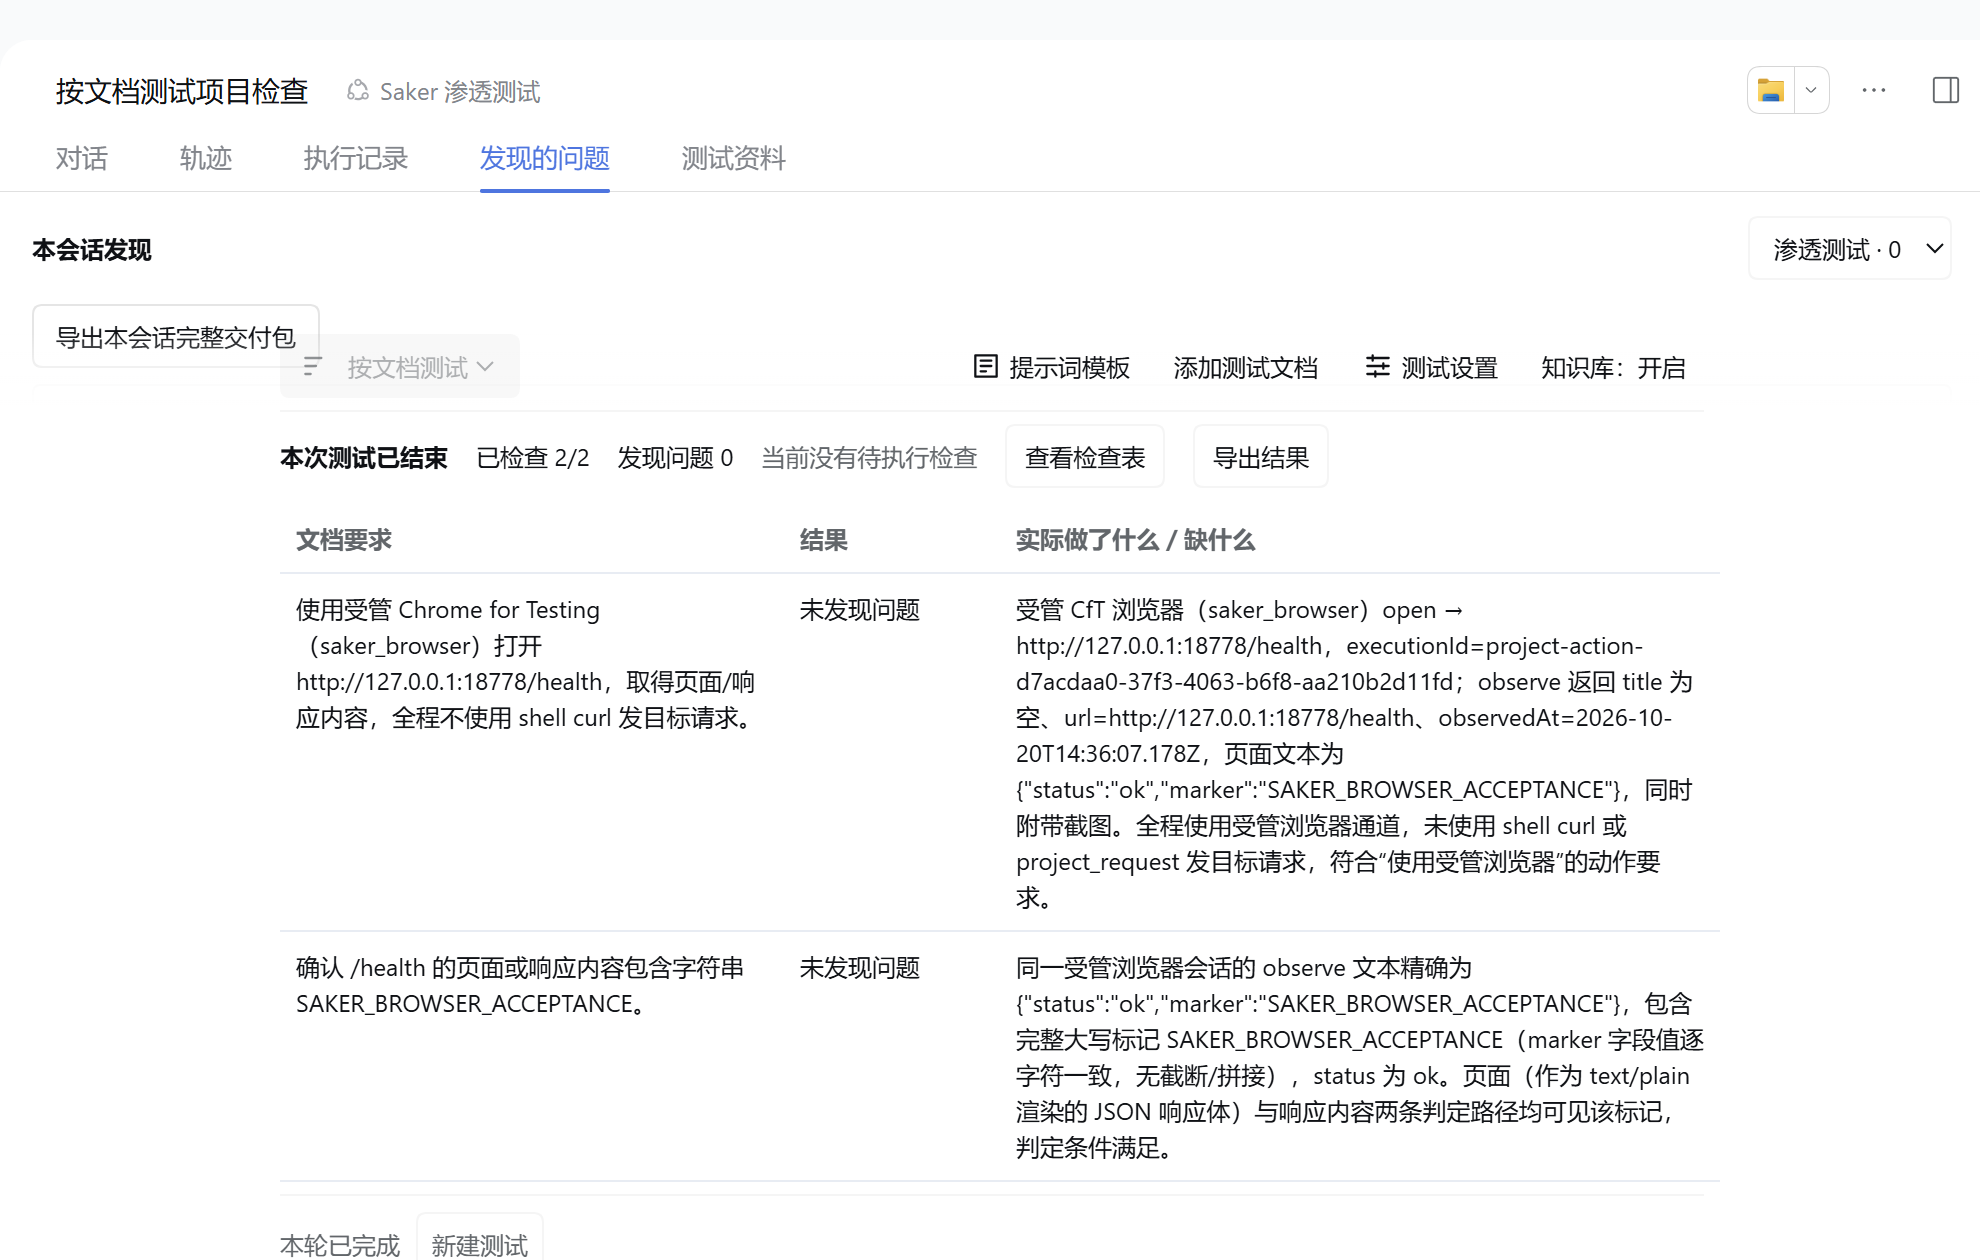
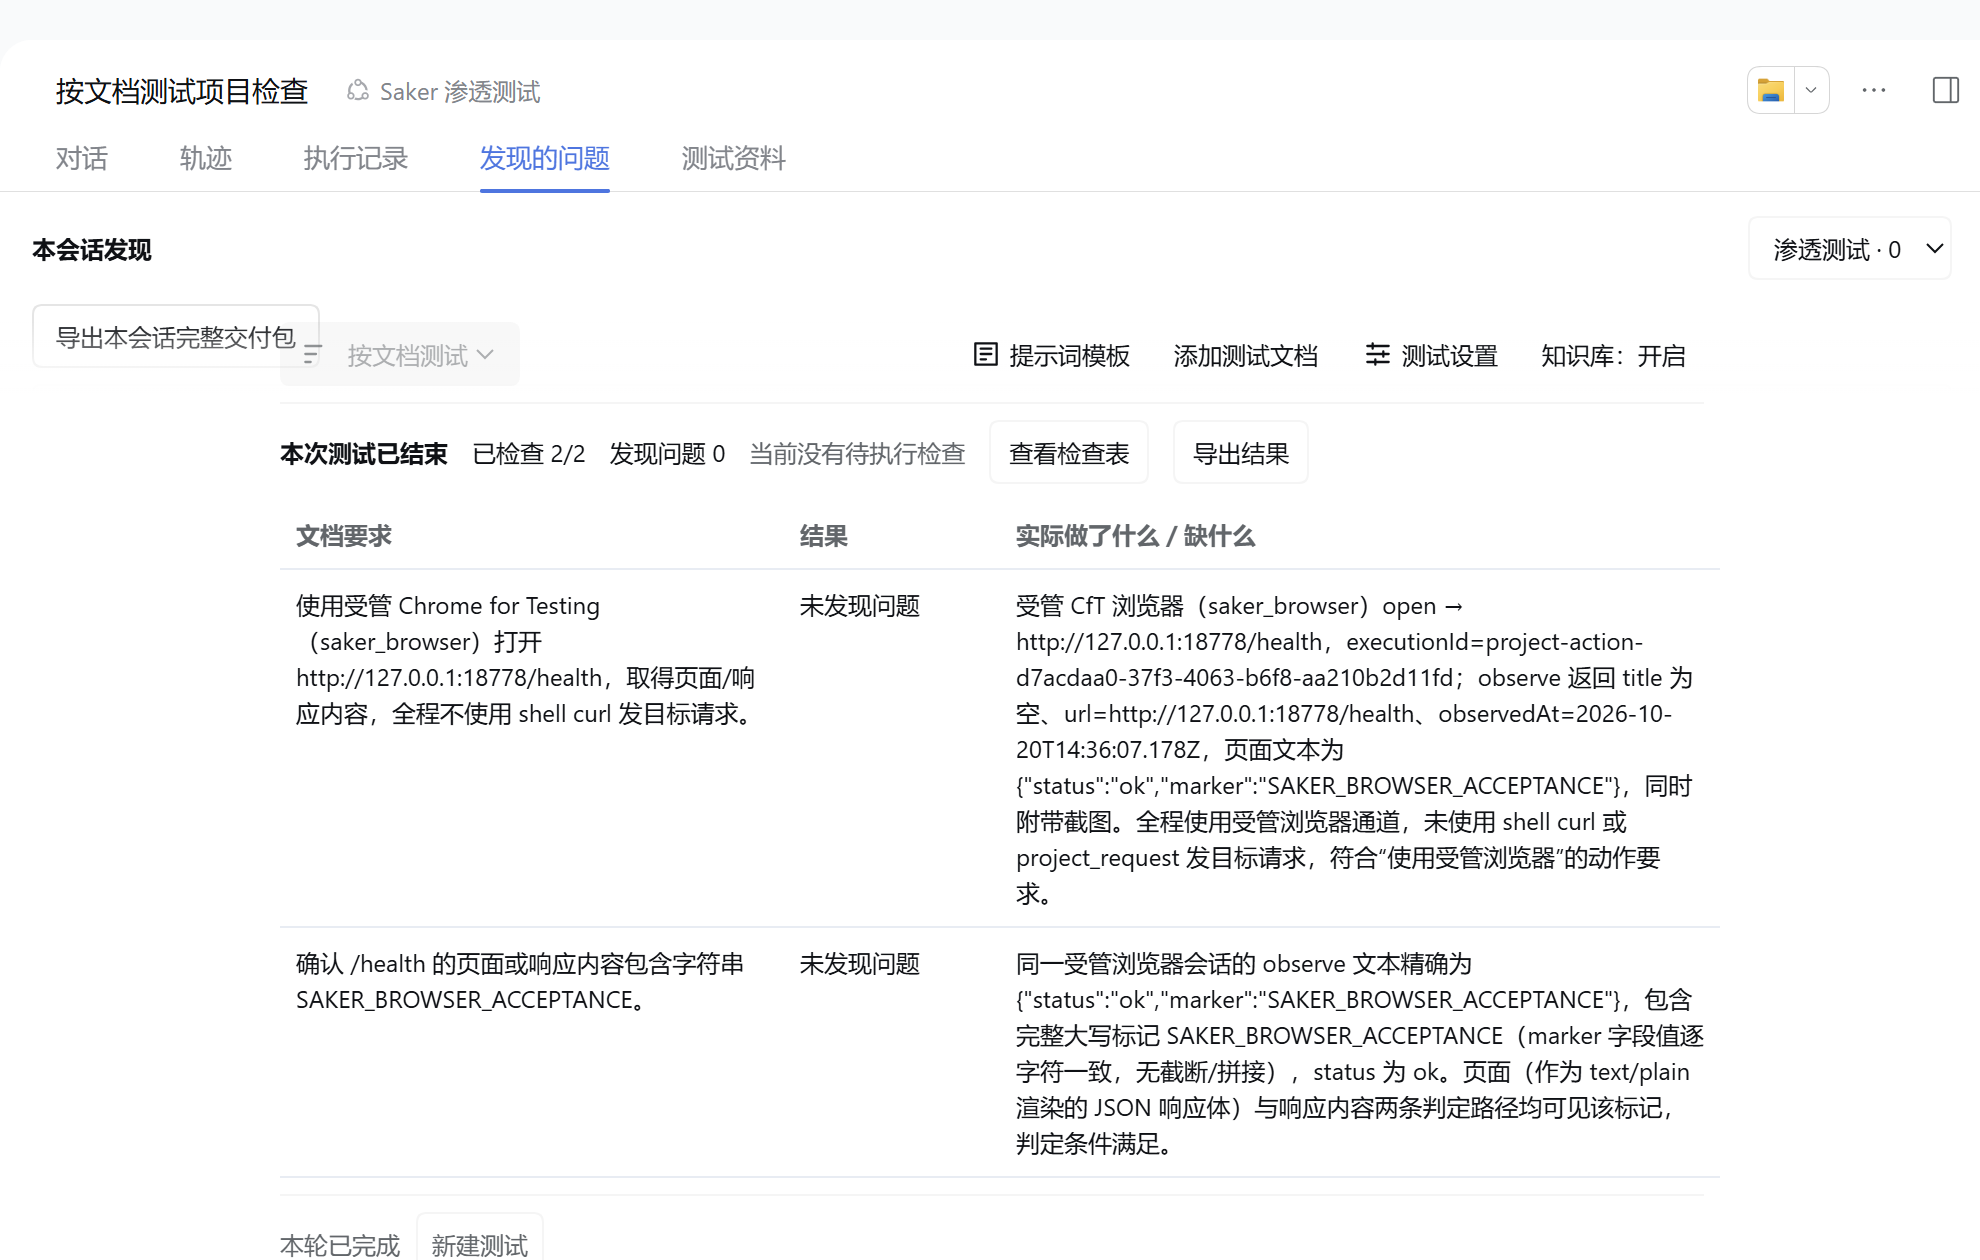
fix: satisfy release gates

diff --git a/plugins/dsh-redteam-results/lib/client.js b/plugins/dsh-redteam-results/lib/client.js
@@ -2830,7 +2830,7 @@ function installChatSetupStyles() {
     '.dsh-task-brief{display:flex;flex-wrap:wrap;gap:4px 16px;margin:4px 0 4px;font-size:12px;color:var(--dsw-alias-label-secondary,#666)}.dsh-task-brief span{overflow-wrap:anywhere}.dsh-task-gaps{margin:4px 0 4px;font-size:12px}.dsh-task-gaps p{margin:4px 0 0;color:var(--dsw-alias-label-secondary,#666);overflow-wrap:anywhere}.dsh-task-entries{margin:4px 0 4px;font-size:12px}.dsh-task-entries p{margin:4px 0 0;color:var(--dsw-alias-label-secondary,#666);overflow-wrap:anywhere}',
     '.dsh-task-panel .dsh-task-recent-row{margin:0;padding:8px 0;border:0;border-top:1px solid var(--dsw-alias-border-l1,#e7e8eb);border-radius:0}.dsh-task-recent-row>summary{display:grid;grid-template-columns:minmax(0,1fr) auto;gap:4px 12px;cursor:pointer;list-style:none}.dsh-task-recent-row>summary::-webkit-details-marker{display:none}.dsh-task-recent-row>summary:focus-visible{outline:2px solid var(--dsw-alias-border-focus,#587cf6);outline-offset:3px}.dsh-task-finding-title{font-weight:600}.dsh-task-finding-title:before{content:"›";display:inline-block;margin-right:8px;color:var(--dsw-alias-label-secondary,#888)}.dsh-task-recent-row[open] .dsh-task-finding-title:before{transform:rotate(90deg)}.dsh-task-finding-target,.dsh-task-finding-note{grid-column:1/-1;color:var(--dsw-alias-label-secondary,#666);overflow-wrap:anywhere}.dsh-task-finding-note{color:var(--dsw-alias-label-primary,inherit)}.dsh-task-recent-row[open]>summary{margin-bottom:8px}.dsh-task-summary{padding-top:0px;border-bottom:0}',
     '.dsh-task-field{display:grid;grid-template-columns:118px minmax(0,600px);align-items:center;gap:8px;margin:8px 0}.dsh-task-field input,.dsh-task-field select{box-sizing:border-box;max-width:100%;min-width:0;font:inherit;color:inherit;border:1px solid var(--dsw-alias-border-l1,#ddd);border-radius:6px;background:var(--dsw-alias-bg-base,transparent);padding:5px 7px}.dsh-task-field input[type=number]{width:76px}.dsh-task-field select{width:fit-content}.dsh-task-mode-options{display:flex;flex-wrap:wrap;gap:8px;margin:12px 0}',
-    '.dsh-chat-project-status{margin:6px 0;padding:6px 0;border-top:1px solid var(--dsw-alias-border-l1,#e3e5e8);border-bottom:1px solid var(--dsw-alias-border-l1,#e3e5e8);font-size:12px}.dsh-chat-project-status-row{display:flex;align-items:center;gap:8px 14px;flex-wrap:wrap}.dsh-chat-project-status-row strong{font-variant-numeric:tabular-nums}.dsh-chat-project-status-row .dsh-chat-project-current{color:var(--dsw-alias-label-secondary,#666);overflow-wrap:anywhere}.dsh-chat-project-table{margin-top:8px}.dsh-chat-project-table .dsh-task-project-table{min-width:720px;table-layout:fixed}.dsh-chat-project-table th:nth-child(1),.dsh-chat-project-table td:nth-child(1){width:35%}.dsh-chat-project-table th:nth-child(2),.dsh-chat-project-table td:nth-child(2){width:15%}.dsh-chat-project-table th:nth-child(3),.dsh-chat-project-table td:nth-child(3){width:50%}',
+    '.dsh-chat-project-status{margin:8px 0;padding:8px 0;border-top:1px solid var(--dsw-alias-border-l1,#e3e5e8);border-bottom:1px solid var(--dsw-alias-border-l1,#e3e5e8);font-size:12px}.dsh-chat-project-status-row{display:flex;align-items:center;gap:8px 12px;flex-wrap:wrap}.dsh-chat-project-status-row strong{font-variant-numeric:tabular-nums}.dsh-chat-project-status-row .dsh-chat-project-current{color:var(--dsw-alias-label-secondary,#666);overflow-wrap:anywhere}.dsh-chat-project-table{margin-top:8px}.dsh-chat-project-table .dsh-task-project-table{min-width:720px;table-layout:fixed}.dsh-chat-project-table th:nth-child(1),.dsh-chat-project-table td:nth-child(1){width:35%}.dsh-chat-project-table th:nth-child(2),.dsh-chat-project-table td:nth-child(2){width:15%}.dsh-chat-project-table th:nth-child(3),.dsh-chat-project-table td:nth-child(3){width:50%}',
     '@media(max-width:600px){.dsh-task-workspace{padding:8px 12px}.dsh-task-file-head{align-items:flex-start;flex-wrap:wrap}.dsh-task-metrics{gap:4px 12px}.dsh-task-field{grid-template-columns:1fr;gap:4px}}'
   ].join('');
   // v6 第 5.7 节共享组件层：控件尺寸改由 shared/ui-kit/ui-kit.css 提供

diff --git a/plugins/dsh-redteam-results/lib/index.js b/plugins/dsh-redteam-results/lib/index.js
@@ -1204,14 +1204,14 @@ function apply(ctx) {
 		description: "登记本会话成果。弱配置须有真实影响和利用链；独立复核后才能交付。子代理成果存子会话。",
 		parameters: {
 			title: { type: "string", required: true, description: "名称（简短）" },
-			severity: { type: "string", enum: SEVERITIES, description: "等级；漏洞型必填，其他模式可省略（默认 medium）" },
+			severity: { type: "string", enum: SEVERITIES, description: "等级；漏洞型必填，默认 medium" },
 			target: { type: "string", required: true, description: "地址/目标/位置" },
 			summary: { type: "string", required: true, description: "一句话简介" },
 			type: { type: "string", description: "类型标签；词表见 finding-fields.md" },
 			description: { type: "string", description: "描述（影响与成因）" },
-			poc: { type: "string", description: "测试过程+完整EXP；复杂场景写 exp/<id>.py，简单场景写可复现的请求/命令" },
+			poc: { type: "string", description: "测试过程与完整EXP；复杂场景保存复现脚本" },
 			proofKind: { type: "string", enum: PROOF_KINDS, description: "证据类型；interaction 不代表 execution" },
-			reproduction: { type: "string", description: "旧完整方法JSON；reviewSteps为字符串。已有对照优先用comparisonId" },
+			reproduction: { type: "string", description: "旧完整方法JSON；已有对照优先用comparisonId" },
 			evidenceRefs: { type: "string", description: 'JSON：[{kind:"request"|"file",id}]，引用原文' },
       comparisonId: { type: 'string', description: 'run-pair的id（pair-…）：自动填回执和方法，保留待复核读取线索' },
 			chain: { type: "string", description: "调用链 entry→sink（审计双链之一，每行一链）" },
@@ -1241,7 +1241,7 @@ function apply(ctx) {
 			identity: { type: "string", description: "利用身份（云）" },
 			permission: { type: "string", description: "权限（云）" },
 			resource: { type: "string", description: "目标资源（云）" },
-			status: { type: "string", enum: REGISTER_STATUSES, description: "默认pending；verified须二次复核和≥40字依据；fixed仅redteam。" },
+			status: { type: "string", enum: REGISTER_STATUSES, description: "默认pending；verified需二次复核；fixed仅redteam。" },
 			evidenceLevel: { type: "string", enum: EVIDENCE_LEVELS, description: "证据等级；语义见 finding-fields.md" },
 			auditMode: { type: "string", enum: ["static", "dynamic"], description: "代码审计必填：static=静态，dynamic=动态复现成功" }
 		},
@@ -1829,7 +1829,7 @@ function apply(ctx) {
       batchId: { type: 'string', description: '稳定批次幂等键；响应丢失后重试应复用相同值' },
       sectionDecisions: { type: 'array', description: '来源整理决定', items: { type: 'object', additionalProperties: false, properties: {
         sourceId: { type: 'string', required: true }, sourceRevision: { type: 'string', required: true },
-        sectionId: { type: 'string', required: true, description: '来源段落 ID；无段落的来源用 #source。' },
+        sectionId: { type: 'string', required: true, description: '来源段落 ID；无段落用 #source。' },
         decision: { type: 'string', required: true, enum: ['requirements', 'reference', 'unreadable'] },
         rationale: { type: 'string', description: '参考/不可读依据' },
         checkIds: { type: 'array', description: '关联本批 checkId', items: { type: 'string' } },
